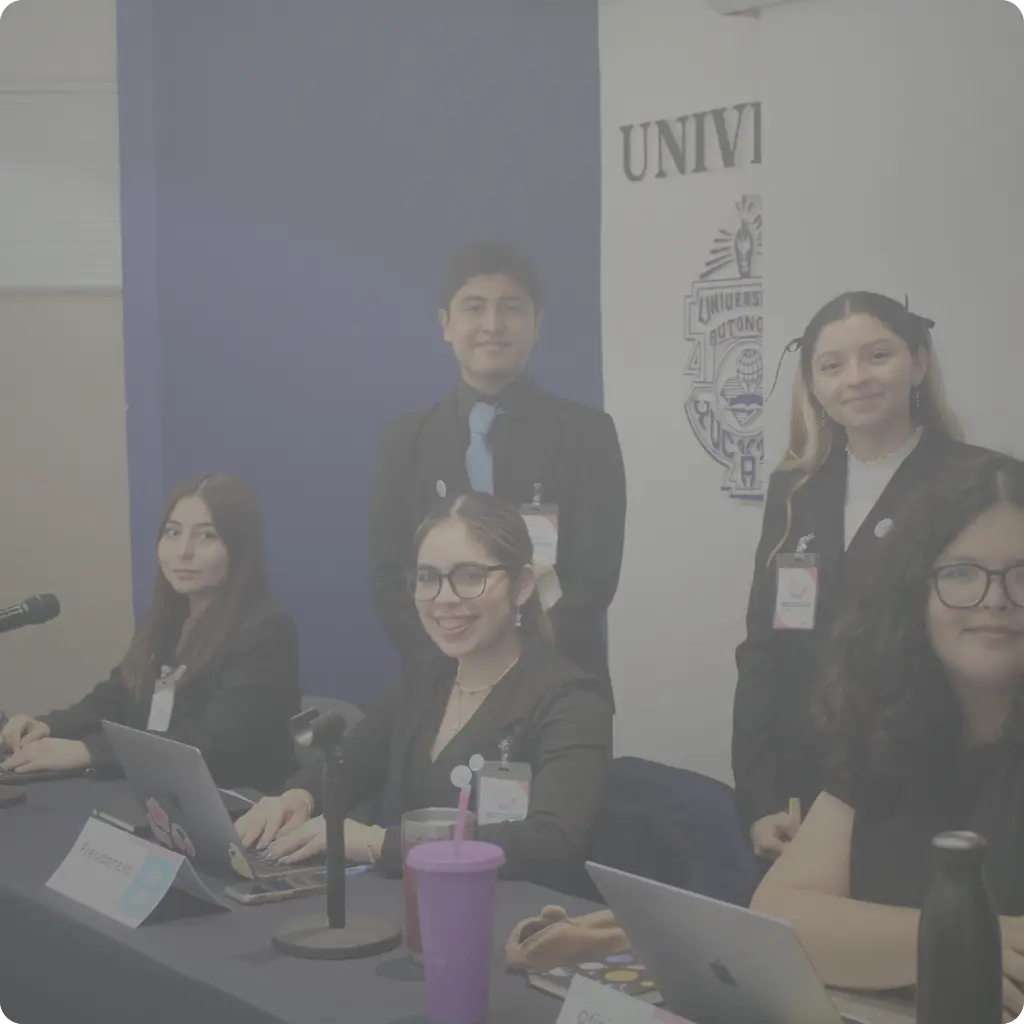
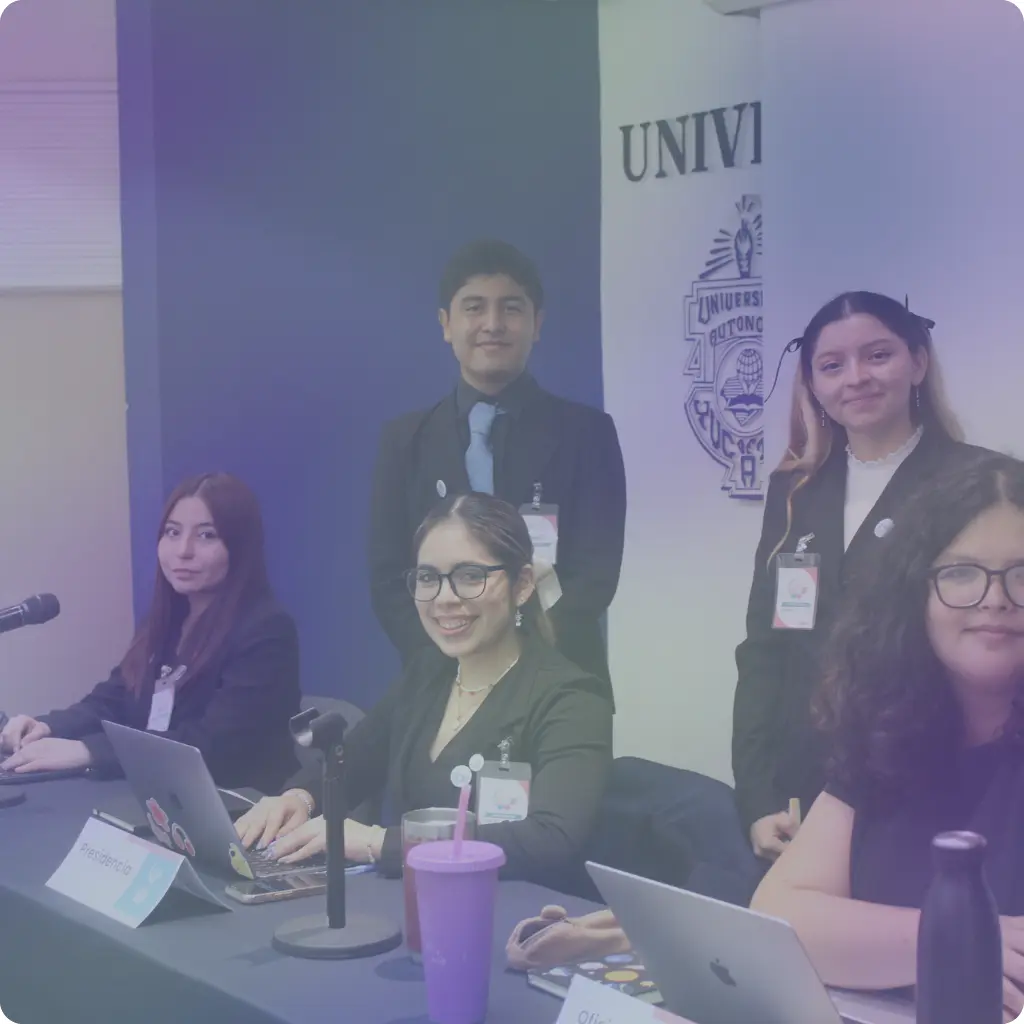
Add dots to recursos on mobile

diff --git a/style/recursos.css b/style/recursos.css
@@ -1,3 +1,24 @@
+@media screen and (max-width: 820px) {
+    #dot-progress {
+        position: fixed;
+        top: 56%;
+        transform: translateY(-56%);
+        right: 8vw;
+        z-index: 2;
+        display: flex;
+        flex-direction: column;
+    }
+
+    .dot {
+        height: 1.5vh;
+        width: 1.5vh;
+        margin: 1vh 0;
+        background-color: #053a80;
+        border-radius: 50%;
+        display: inline-block;
+    }
+}
+
 #titulo-carta {
     background-color: #042654;
     padding: 3.5vh 0 2vh 0;
